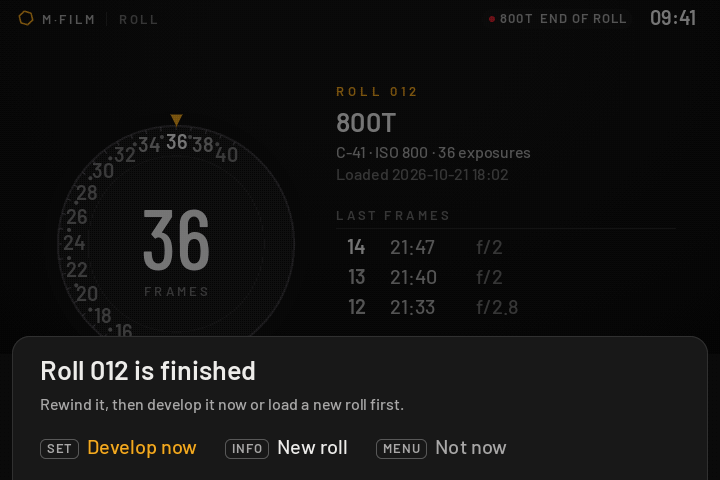
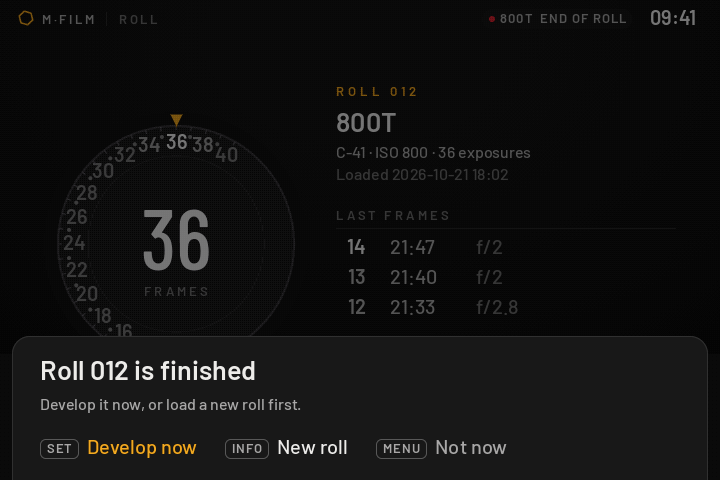
README: Basic and Realistic film modes, and the DSLR top plate
Both READMEs show the Film mode setting and a roll that finishes by
itself in Basic mode, and the top plate a DSLR's back screen shows when
it shoots through the viewfinder. The roll, system and end-of-roll
previews are rendered again from today's code (Basic, the default).

Claude-Session: https://claude.ai/code/session_01DXT5FiqygAgFDLmzWqSzpT

Changed region(s): [[0.0611, 0.8125, 0.55, 0.875]]

diff --git a/README.md b/README.md
@@ -40,14 +40,14 @@ the roll, then develop it and see what you got.
 </tr>
 <tr>
 <td><b>Load a roll.</b> A shelf of canisters that turn to face you. Pick one and the leader comes out of it.</td>
-<td><b>Count your frames.</b> A film camera's frame counter, from S to the last frame of the roll, and a rewind.</td>
+<td><b>Count your frames.</b> A film camera's frame counter, from S to the last frame of the roll.</td>
 </tr>
 <tr>
 <td><img src="ml-dev/filmos/preview/hud.png" alt="Viewfinder HUD"></td>
 <td><img src="ml-dev/filmos/preview/developing.png" alt="Developing in the camera"></td>
 </tr>
 <tr>
-<td><b>Shoot.</b> An SLR viewfinder: aperture scale, light meter needle, red seven-segment frame count.</td>
+<td><b>Shoot.</b> An SLR viewfinder over LiveView: aperture scale, light meter needle, red seven-segment frame count.</td>
 <td><b>Develop in the camera.</b> The darkroom develops the finished roll frame by frame, into JPEG folders on the card.</td>
 </tr>
 <tr>
@@ -61,6 +61,38 @@ the roll, then develop it and see what you got.
 </table>
 
 Every RAW is kept, so nothing is lost: you can develop the same roll again with another film later.
+
+### Basic or Realistic
+
+<table>
+<tr>
+<td width="50%"><img src="ml-dev/filmos/preview/system.png" alt="Film mode in Settings"></td>
+<td width="50%"><img src="ml-dev/filmos/preview/end-of-roll.png" alt="A finished roll in Basic mode"></td>
+</tr>
+<tr>
+<td><b>Choose how real.</b> <i>Settings → System → Film mode</i>.</td>
+<td><b>Basic</b> (the default): the last frame finishes the roll, and it goes straight to the darkroom. No rewinding.</td>
+</tr>
+</table>
+
+- **Basic:** shoot, then develop. Stop early with *Finish roll* on the Roll page.
+- **Realistic:** like a real film camera. Rewind the roll before it can be developed.
+- Either way the roll is the same on the card, so Darkrooms reads both.
+
+### On a DSLR: a top plate
+
+<p align="center"><img src="ml-dev/filmos/preview/plate.png" alt="The top plate on a DSLR's back screen" width="720"></p>
+
+A DSLR shoots through its optical viewfinder, so there is no LiveView to draw on. With a roll loaded and
+LiveView off, the back screen becomes a film camera's top plate:
+
+- shutter, aperture and frame in big seven-segment digits
+- the film and its ISO
+- a light meter from −2 to +2 stops, and a bar of the frames left
+- WIND ON when the next frame needs winding
+
+It goes off when you put your eye to the viewfinder, and LiveView brings the viewfinder HUD back.
+*New in 0.1.1, still waiting for a DSLR tester: see [Cameras](#cameras).*
 
 ---
 
